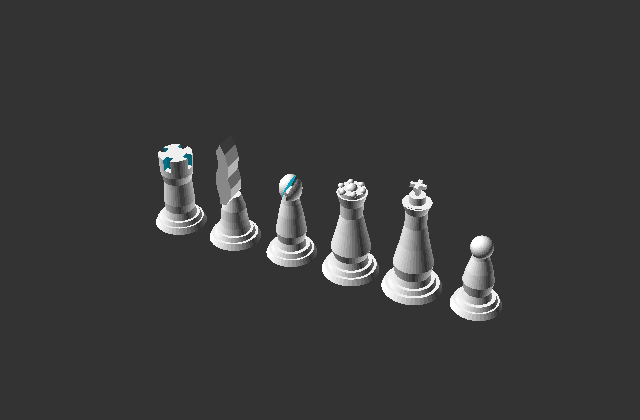
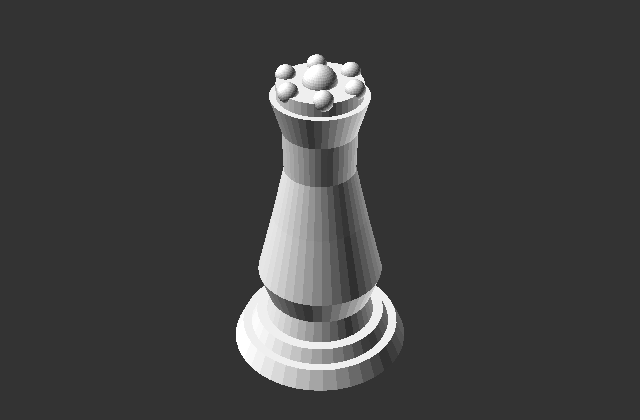
Simplify chess example to single-piece default

Changed region(s): [[0.25, 0.1238, 0.7812, 0.9286]]

diff --git a/src/forge3d/start-catalog.js b/src/forge3d/start-catalog.js
@@ -52,9 +52,9 @@ export const START_CATALOG = [
     id: 'example-chess-pawn',
     section: 'examples',
     kind: 'example',
-    name: 'Chess Pieces Showcase',
-    summary: 'A full six-piece chess lineup with reusable modules for pawn, rook, knight, bishop, queen, and king.',
-    tags: ['chess', 'showcase', 'parametric', 'playful'],
+    name: 'Chess Pieces',
+    summary: 'One file with reusable modules for pawn, rook, knight, bishop, queen, and king, selected by a single `piece` setting.',
+    tags: ['chess', 'parametric', 'playful', 'piece-selector'],
     sourceType: 'builtin',
     primaryAction: 'openExample',
     code: chessPawnCode,
